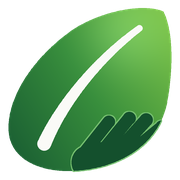
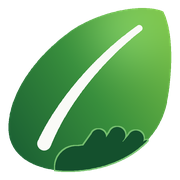
Redesign the welcome screen and let her go back
Both doors are now the same card - photo, label, chevron - so neither looks like the
recommended or disabled one, the block is centred, and the big logo above the
question is gone; the top bar already carries the mark. Each later step (place, crop,
places) gets a back control, so a wrong tap no longer traps her mid-setup.

diff --git a/app/js/screens/welcome.js b/app/js/screens/welcome.js
@@ -21,20 +21,31 @@ export function render() {
 }
 
 function doors() {
-  return `<div class="stack">
-    <img class="welcome-logo" src="img/logo.png" alt="Walo" width="116" height="116">
-    <h1 class="q">What do you want to know?</h1>
-    <div class="choices two">
-      <button type="button" class="choice" data-door="place"><span class="tile-ic">${icon("map-pin")}</span><b>I have a farm</b><small>What can I grow there?</small></button>
-      <button type="button" class="choice" data-door="crop"><span class="tile-ic">${icon("sprout")}</span><b>I want to plant a crop</b><small>Where should I plant it?</small></button>
+  return `<div class="stack wl">
+    <div class="wl-head">
+      <h1 class="q">What do you want to know?</h1>
+      <p class="muted">Pick one. You can change it any time.</p>
     </div>
-    <p class="muted small">Used Walo before? <a href="#/backup">Sign in with your email</a> and your fields come back.</p>
+    <div class="wl-doors">
+      <button type="button" class="door" data-door="place">
+        <img class="door-pic" src="img/field.webp" alt="" width="84" height="84">
+        <span class="door-t"><b>I have a farm</b><small>What can I grow there?</small></span>
+        <span class="door-go">${icon("chevron-right")}</span>
+      </button>
+      <button type="button" class="door" data-door="crop">
+        <img class="door-pic" src="img/maize-field.webp" alt="" width="84" height="84">
+        <span class="door-t"><b>I want to plant a crop</b><small>Where should I plant it?</small></span>
+        <span class="door-go">${icon("chevron-right")}</span>
+      </button>
+    </div>
+    <p class="muted small wl-signin">Used Walo before? <a href="#/backup">Sign in with your email</a> and your fields come back.</p>
   </div>`;
 }
 
 function placeStep() {
   const list = towns().slice().sort((a, b) => a.name.localeCompare(b.name));
   return `<div class="stack">
+    ${backBtn()}
     <h1 class="q">Where is your farm?</h1>
     ${note("Walo uses NASA rain and temperature for your place. It stays on this phone.", "map-pin")}
     ${btn("Use my location", { ic: "locate-fixed", attrs: 'id="w-gps" data-net' })}
@@ -52,6 +63,7 @@ function cropStep() {
   const list = crops().slice().sort((a, b) => (asking ? 0 : here.has(b.id) - here.has(a.id)) || a.name.localeCompare(b.name));
   const cur = mainIsAuto() ? null : mainCrop(); // a crop from a field is not a choice she made here
   return `<div class="stack">
+    ${backBtn()}
     <h1 class="q">${asking ? "Which crop do you want to plant?" : `What can you grow in ${esc(placeLabel(place()))}?`}</h1>
     ${note(asking ? "Walo will show you where it does best." : "The crops that do well here come first. Pick the one you grow.", "sprout")}
     <div class="tiles">${list.map((c) => `<button type="button" class="tile${c.id === cur ? " sel" : ""}" data-crop="${c.id}">${cropImg(c, "tile-img")}<span>${esc(c.name)}</span></button>`).join("")}</div>
@@ -65,17 +77,28 @@ function placesStep() {
   const c = crop(W.crop);
   if (!c) { W.step = "doors"; return doors(); }
   return `<div class="stack">
+    ${backBtn("Choose another crop")}
     <h1 class="q">Where should you plant ${esc(c.name.toLowerCase())}?</h1>
     ${placesHtml(c, "Tap the town where you will plant it.")}
-    ${btn("Choose another crop", { kind: "secondary", attrs: "data-back" })}
   </div>`;
+}
+
+/* one way back from every step, so a wrong tap never strands her in the middle of setup */
+const backBtn = (label = "Back") => `<button type="button" class="wback" data-wback>${icon("chevron-left")}<span>${label}</span></button>`;
+
+/* where "back" goes from the step she is on */
+function stepBack() {
+  if (W.step === "place") W.step = "doors";
+  else if (W.step === "crop") W.step = W.order === "place" ? "place" : "doors";
+  else { W.step = "crop"; W.crop = null; }
+  refresh();
 }
 
 export function mount(root) {
   root.addEventListener("click", (e) => {
     const door = e.target.closest("[data-door]");
     if (door) { W.order = door.dataset.door; W.step = W.order === "crop" ? "crop" : "place"; refresh(); return; }
-    if (e.target.closest("[data-back]")) { W.step = "crop"; W.crop = null; refresh(); return; }
+    if (e.target.closest("[data-wback]")) { stepBack(); return; }
     const t = e.target.closest("[data-town]");
     if (t) { choosePlace(t.dataset.town); return; }
     const c = e.target.closest("[data-crop]");

diff --git a/app/styles.css b/app/styles.css
@@ -33,7 +33,22 @@ img { display: block; max-width: 100%; }
 .back, .brand { width: var(--tap); height: var(--tap); display: grid; place-items: center; border: 0; background: none; border-radius: 50%; color: var(--ink); cursor: pointer; }
 .brand { color: var(--muted); }
 .brand-logo { width: 30px; height: 30px; }
-.welcome-logo { width: 116px; height: 116px; margin: 4px auto 0; }
+
+/* ---------- first run: two doors, one look, centred ---------- */
+.wl { align-items: stretch; text-align: center; padding-top: var(--sp-s); }
+.wl-head { display: flex; flex-direction: column; gap: 6px; margin-bottom: var(--sp-s); }
+.wl-doors { display: grid; gap: 12px; }
+.door { display: flex; align-items: center; gap: 14px; width: 100%; padding: 10px; border: 1px solid var(--line); border-radius: 18px; background: var(--surface); box-shadow: var(--shadow); color: var(--ink); font: inherit; text-align: left; cursor: pointer; }
+.door:active { transform: scale(.985); }
+.door-pic { width: 84px; height: 84px; flex: none; border-radius: 14px; object-fit: cover; }
+.door-t { flex: 1; min-width: 0; display: flex; flex-direction: column; gap: 2px; }
+.door-t b { font-size: var(--fs-h); line-height: 1.25; }
+.door-t small { font-size: var(--fs-s); color: var(--muted); line-height: 1.3; }
+.door-go { color: var(--muted); display: grid; place-items: center; padding-right: 6px; }
+.door-go .ic { width: 20px; height: 20px; }
+.wl-signin { margin-top: var(--sp-s); }
+.wback { align-self: flex-start; display: inline-flex; align-items: center; gap: 4px; min-height: 44px; margin: -6px 0 -8px -8px; padding: 0 10px 0 4px; border: 0; background: none; color: var(--brand); font: inherit; font-weight: 700; cursor: pointer; }
+.wback .ic { width: 20px; height: 20px; }
 .tb-gap { width: var(--sp-s); }
 .placechip { display: inline-flex; align-items: center; gap: 6px; max-width: 46%; min-height: 40px; padding: 0 12px; border: 1px solid var(--line); border-radius: 999px; background: var(--surface); font-size: var(--fs-s); font-weight: 600; cursor: pointer; }
 .placechip .ic { width: 18px; height: 18px; color: var(--brand); }
@@ -43,7 +58,7 @@ img { display: block; max-width: 100%; }
 #main:focus, #main:focus-visible { outline: none; }
 main { padding: var(--sp) var(--sp) calc(var(--tabs) + env(safe-area-inset-bottom) + var(--sp-l)); outline: none; }
 /* ---------- first paint: the logo, centred, until the router has a screen ---------- */
-.boot { min-height: calc(100dvh - 2 * var(--sp)); display: flex; flex-direction: column; align-items: center; justify-content: center; gap: 6px; }
+.boot { min-height: calc(100dvh - 2 * var(--sp) - 8px); display: flex; flex-direction: column; align-items: center; justify-content: center; gap: 6px; }
 .boot-mark { width: 104px; height: 104px; animation: boot-breathe 2.2s ease-in-out infinite; }
 .boot-name { font-size: 26px; font-weight: 700; letter-spacing: .01em; color: var(--ink); }
 .boot-say { font-size: var(--fs-s); color: var(--muted); }

diff --git a/app/sw.js b/app/sw.js
@@ -5,7 +5,7 @@
    missing file can no longer fail the whole install and leave a farmer with no offline copy at all.
    Any file that fails is reported to /api/log (app/api/log.js) as "sw_missing" so it shows up in the
    server log instead of failing silently. Bump CACHE whenever FILES or a shipped asset changes. */
-const CACHE = "walo-v52";
+const CACHE = "walo-v53";
 const FILES = ["./", "index.html", "styles.css", "icon.svg", "manifest.json", "fonts/jakarta-var.woff2", "lib/agro.js",
   "img/logo-mark.png", "img/logo-mark-192.png", "img/logo-mark-512-maskable.png", "img/favicon-32.png", "img/apple-touch-icon.png",
   "js/main.js", "js/data.js", "js/store.js", "js/ui.js", "js/util.js", "js/icons.js",

diff --git a/app/scripts/build_logo.py b/app/scripts/build_logo.py
@@ -99,18 +99,18 @@ def mark(size):
     # outlined in the light green so the fingers stay separate even at 32 px.
     under = art.copy()
     parts = [
-        ((0.50, 0.94), (0.66, 0.90), 0.20),   # palm
-        ((0.46, 0.90), (0.62, 0.70), 0.072),  # little finger
-        ((0.55, 0.91), (0.74, 0.68), 0.076),
-        ((0.64, 0.91), (0.84, 0.69), 0.078),
-        ((0.72, 0.90), (0.93, 0.73), 0.072),  # thumb, lying flatter
+        ((0.43, 0.97), (0.67, 0.94), 0.25),   # palm and heel
+        ((0.46, 0.93), (0.56, 0.79), 0.088),  # little finger
+        ((0.56, 0.94), (0.67, 0.78), 0.094),
+        ((0.66, 0.94), (0.78, 0.80), 0.092),
+        ((0.73, 0.93), (0.85, 0.85), 0.082),  # thumb, lying flatter
     ]
     hand = Image.new("L", (S, S), 0)
     hd = ImageDraw.Draw(hand)
     for a, b, w in parts:
         capsule(hd, a, b, w, 255, S)
     hand = Image.composite(hand, Image.new("L", (S, S), 0), leaf)
-    ring = ImageChops.subtract(hand.filter(ImageFilter.MaxFilter(9)), hand)
+    ring = ImageChops.subtract(hand.filter(ImageFilter.MaxFilter(11)), hand)
     art.paste(Image.new("RGBA", (S, S), HAND_LIGHT + (255,)), (0, 0), ring)
     art.paste(Image.new("RGBA", (S, S), (20, 80, 45, 255)), (0, 0), hand)
 
